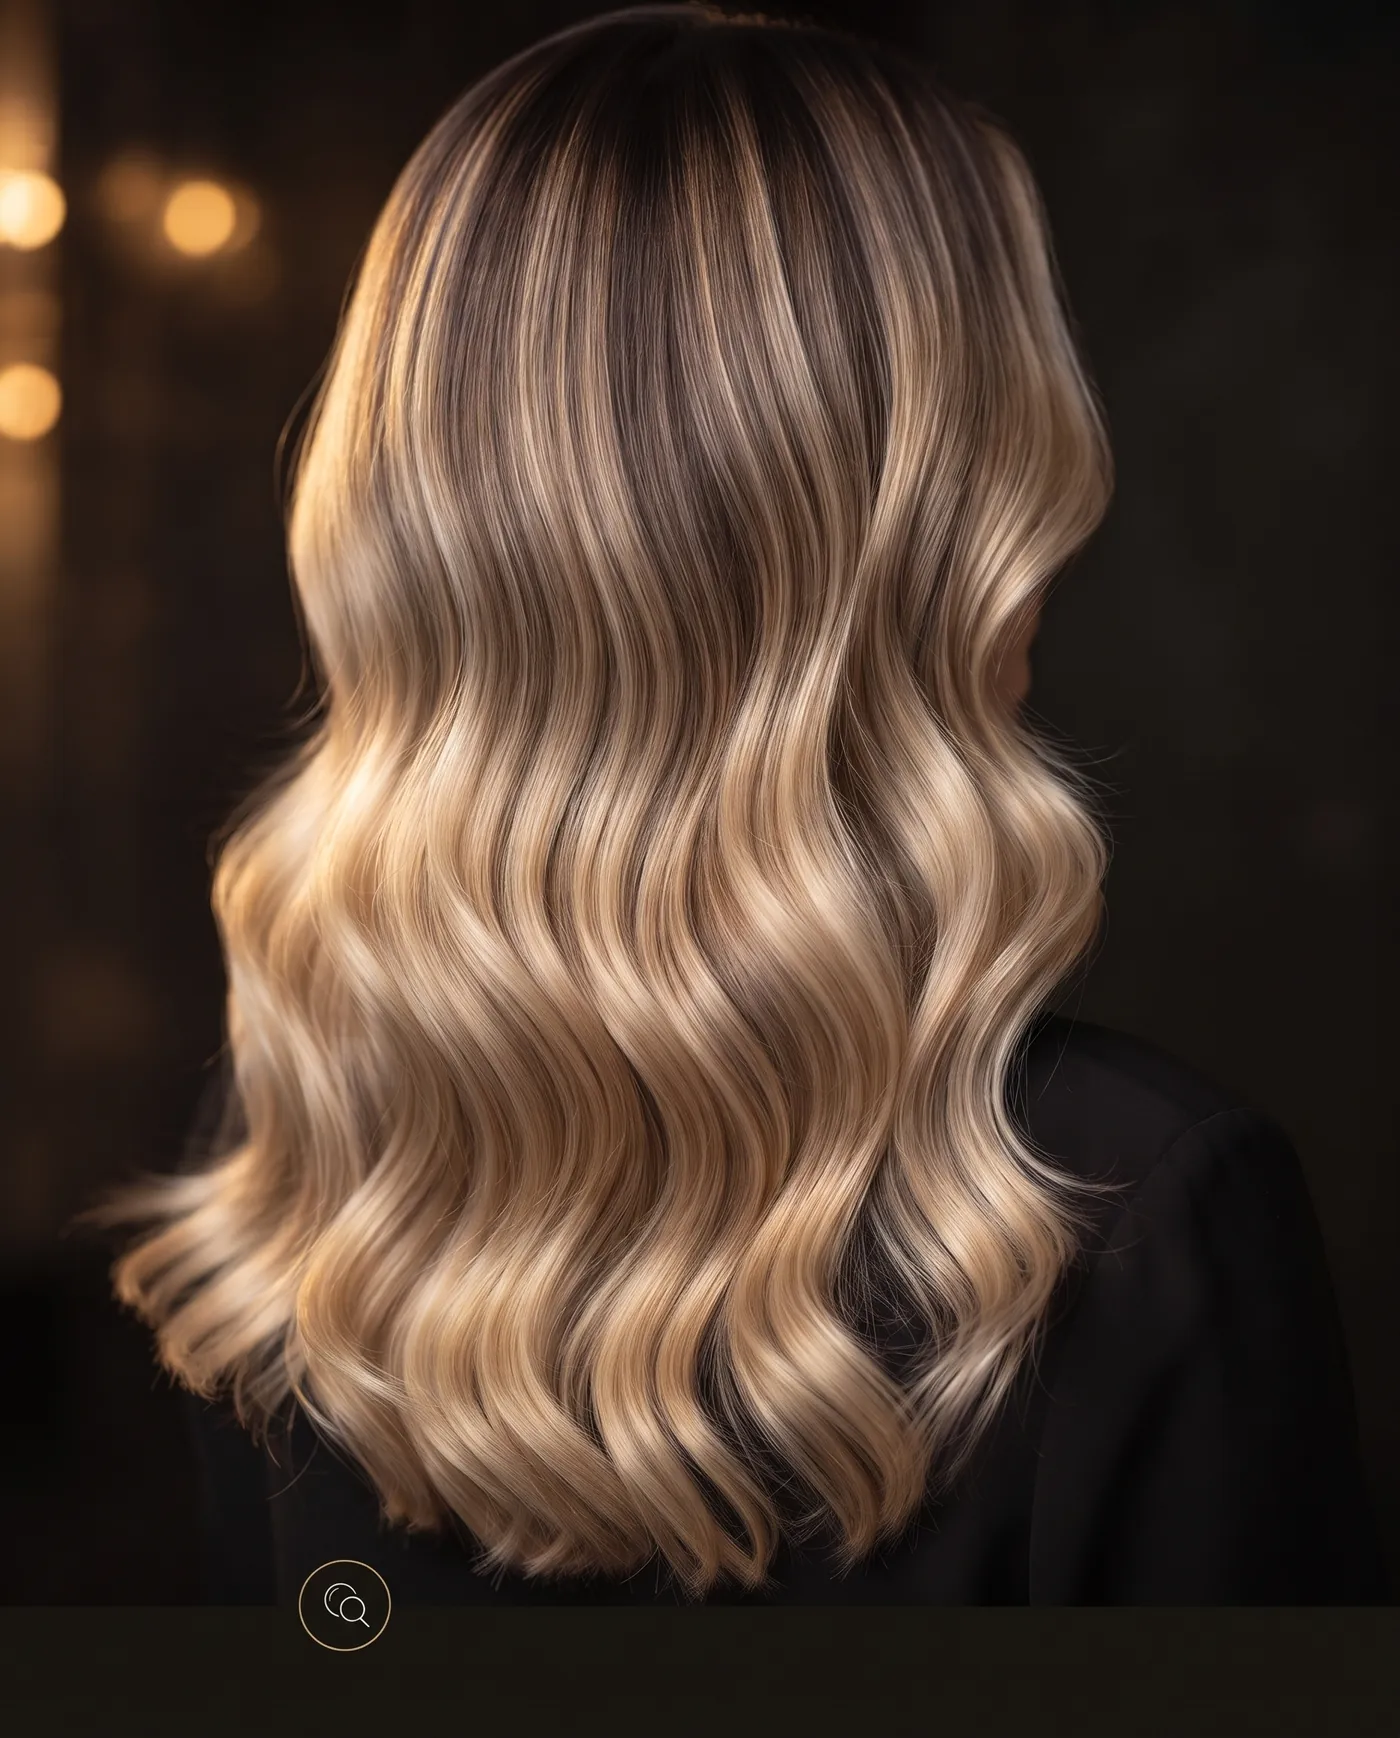
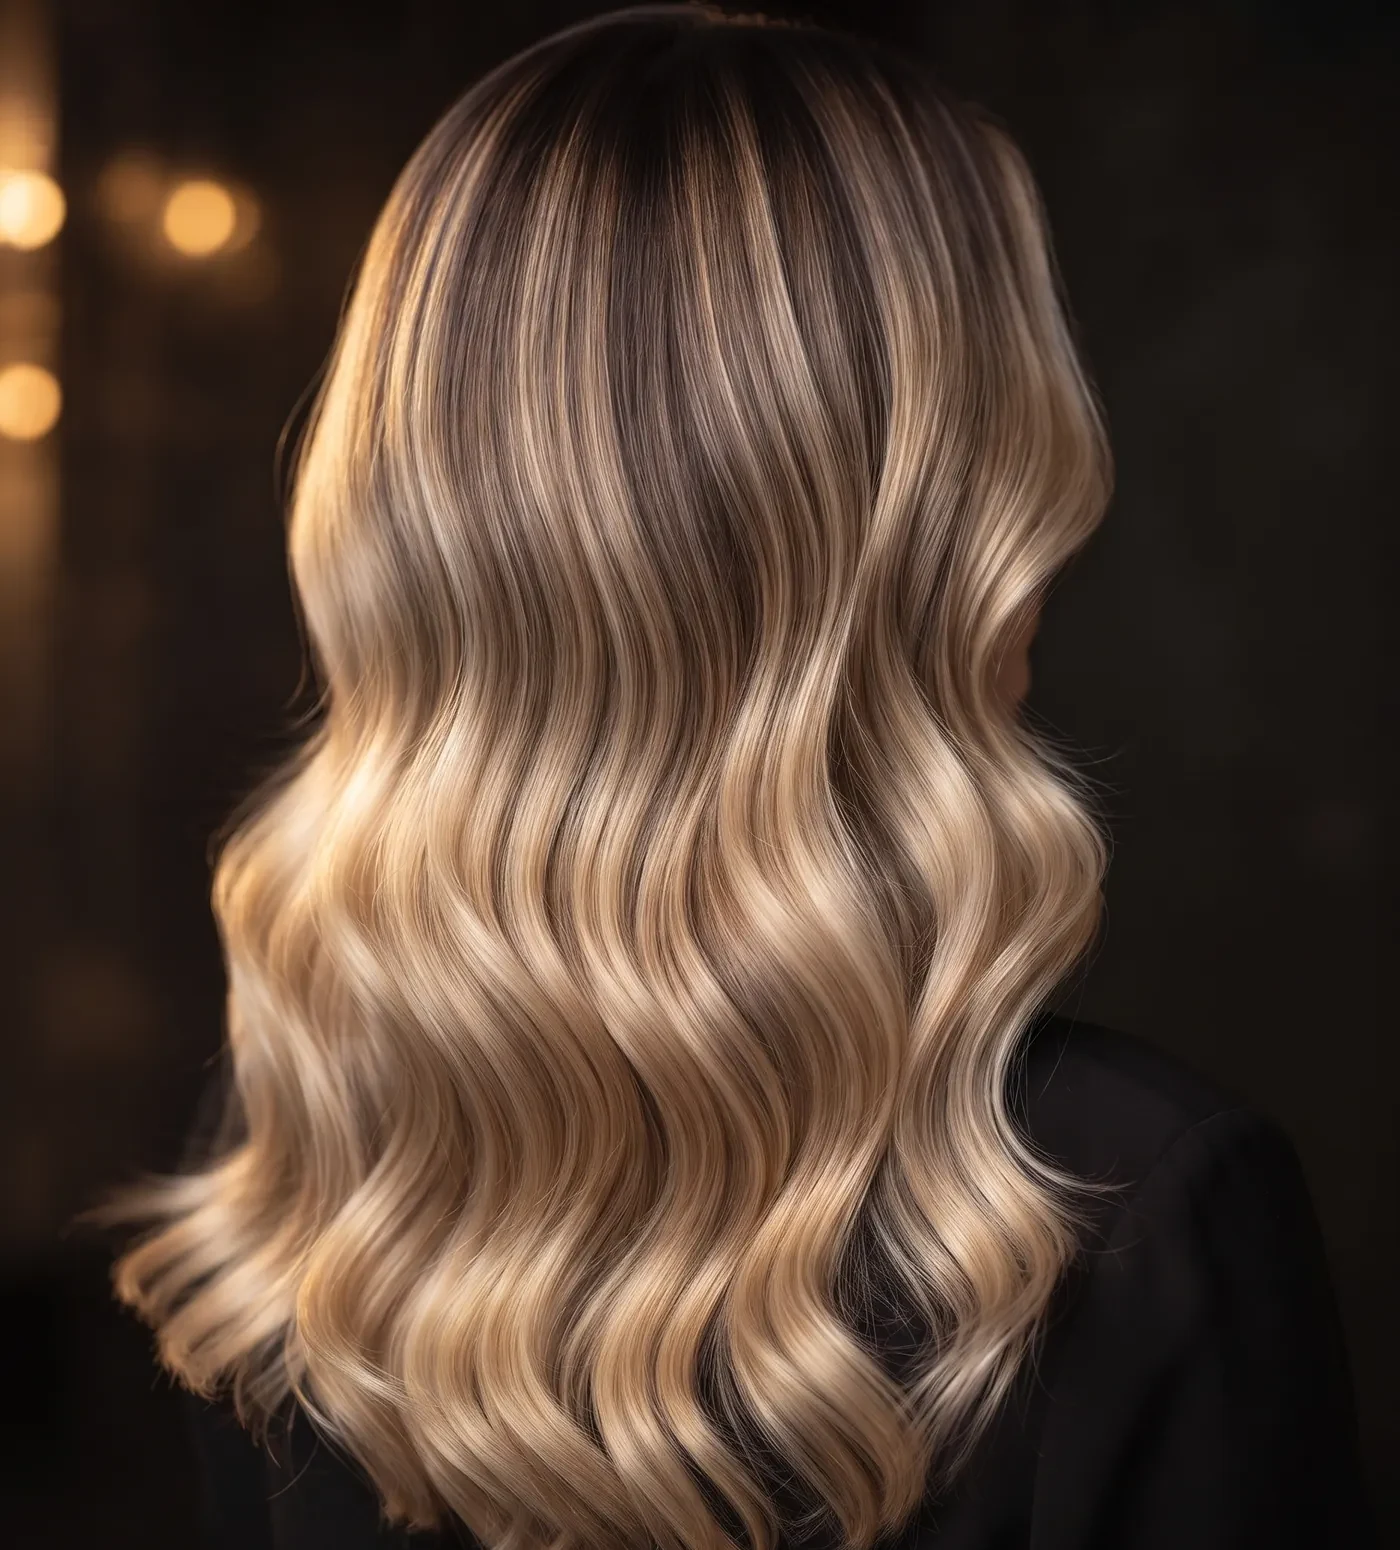
Frisør: ny hero-overskrift, træk i galleri og anmeldelser, rettede fotos og småting på mobil

diff --git a/components/frisoer/BaandTraek.tsx b/components/frisoer/BaandTraek.tsx
@@ -1,0 +1,160 @@
+"use client";
+
+import { useEffect } from "react";
+
+// Båndene (galleri og udtalelser) kan trækkes og skydes afsted med finger eller mus.
+// Uden JavaScript kører båndet på CSS-animationen. Her overtager vi bevægelsen, så alt hænger sammen:
+//  - båndet har sin egen rolige fart (den samme som CSS-animationen) og sin egen retning
+//  - mens man trækker, følger det fingeren
+//  - når man slipper, fortsætter det med fingerens fart og bremser blødt ned til sin egen rytme igen
+// Udtalelserne holder stadig pause, når musen er over dem, så man kan læse et kort.
+// Har brugeren bedt om mindre bevægelse, står båndet stille, men kan stadig trækkes.
+export default function BaandTraek() {
+  useEffect(() => {
+    const rolig = window.matchMedia("(prefers-reduced-motion: reduce)").matches;
+    const ryd: Array<() => void> = [];
+
+    document.querySelectorAll<HTMLElement>(".fr .fr-baand").forEach((baand) => {
+      const ul = baand.querySelector<HTMLElement>("ul");
+      if (!ul) return;
+
+      // Egen fart i px pr. ms, læst fra CSS-animationen, før vi slår den fra
+      const varighed = parseFloat(getComputedStyle(ul).animationDuration) * 1000 || 60000;
+      const retning = baand.classList.contains("fr-baand-modsat") ? 1 : -1;
+      // Galleriets rækker står der fire gange, udtalelserne to gange
+      const laeseBaand = baand.classList.contains("fr-udtalelser-baand");
+      const kopier = laeseBaand ? 2 : 4;
+      let periode = ul.scrollWidth / kopier;
+      let musOver = false;
+      const egenFart = () => (rolig || musOver ? 0 : (retning * periode) / varighed);
+
+      let x = retning > 0 ? -periode : 0; // båndets placering i px, altid mellem -periode og 0
+      let fart = egenFart();
+      let nede = false;
+      let traekker = false;
+      let startX = 0;
+      let sidstX = 0;
+      let sidstTid = 0;
+      let synlig = true;
+      let ramme = 0;
+      let forrige = 0;
+
+      baand.classList.add("er-styret");
+
+      const tegn = () => {
+        if (periode > 0) x = ((x % periode) - periode) % periode;
+        ul.style.transform = `translate3d(${x.toFixed(2)}px, 0, 0)`;
+      };
+
+      const trin = (nu: number) => {
+        const dt = Math.min(48, nu - (forrige || nu));
+        forrige = nu;
+        if (!traekker) {
+          // Farten nærmer sig båndets egen fart: hurtigt i starten, blødt til sidst (ca. 1,5 sek. i alt)
+          const maal = egenFart();
+          fart = maal + (fart - maal) * Math.exp(-dt / 420);
+          x += fart * dt;
+          tegn();
+        }
+        ramme = synlig ? requestAnimationFrame(trin) : 0;
+      };
+
+      const start = () => {
+        if (ramme || !synlig) return;
+        forrige = 0;
+        ramme = requestAnimationFrame(trin);
+      };
+
+      const ned = (e: PointerEvent) => {
+        if (e.pointerType === "mouse" && e.button !== 0) return;
+        nede = true;
+        traekker = false;
+        startX = sidstX = e.clientX;
+        sidstTid = e.timeStamp;
+      };
+
+      const flyt = (e: PointerEvent) => {
+        if (!nede) return;
+        if (!traekker) {
+          if (Math.abs(e.clientX - startX) < 6) return;
+          traekker = true;
+          fart = 0;
+          baand.classList.add("er-trukket");
+          try {
+            baand.setPointerCapture(e.pointerId);
+          } catch {}
+        }
+        const dx = e.clientX - sidstX;
+        const dt = Math.max(1, e.timeStamp - sidstTid);
+        // Glattet fingerfart, så et lille ryk til sidst ikke bestemmer det hele
+        fart = fart * 0.55 + (dx / dt) * 0.45;
+        sidstX = e.clientX;
+        sidstTid = e.timeStamp;
+        x += dx;
+        tegn();
+      };
+
+      const slip = (e: PointerEvent) => {
+        if (!nede) return;
+        nede = false;
+        if (!traekker) return;
+        traekker = false;
+        baand.classList.remove("er-trukket");
+        // Holdt fingeren stille, før den slap, skal båndet ikke skydes afsted
+        if (e.timeStamp - sidstTid > 90) fart = 0;
+        fart = Math.max(-3.2, Math.min(3.2, fart));
+      };
+
+      const maal = () => {
+        const ny = ul.scrollWidth / kopier;
+        if (ny > 0 && periode > 0) x = (x / periode) * ny;
+        periode = ny;
+        tegn();
+      };
+
+      const io = new IntersectionObserver(
+        ([p]) => {
+          synlig = p.isIntersecting;
+          if (synlig) start();
+        },
+        { rootMargin: "120px 0px" },
+      );
+      io.observe(baand);
+      const ro = new ResizeObserver(maal);
+      ro.observe(ul);
+
+      const ind = (e: PointerEvent) => {
+        if (laeseBaand && e.pointerType === "mouse") musOver = true;
+      };
+      const ud = () => {
+        musOver = false;
+      };
+      baand.addEventListener("pointerenter", ind);
+      baand.addEventListener("pointerleave", ud);
+      baand.addEventListener("pointerdown", ned);
+      baand.addEventListener("pointermove", flyt);
+      baand.addEventListener("pointerup", slip);
+      baand.addEventListener("pointercancel", slip);
+      tegn();
+      start();
+
+      ryd.push(() => {
+        cancelAnimationFrame(ramme);
+        io.disconnect();
+        ro.disconnect();
+        baand.removeEventListener("pointerenter", ind);
+        baand.removeEventListener("pointerleave", ud);
+        baand.removeEventListener("pointerdown", ned);
+        baand.removeEventListener("pointermove", flyt);
+        baand.removeEventListener("pointerup", slip);
+        baand.removeEventListener("pointercancel", slip);
+        baand.classList.remove("er-styret", "er-trukket");
+        ul.style.transform = "";
+      });
+    });
+
+    return () => ryd.forEach((f) => f());
+  }, []);
+
+  return null;
+}

diff --git a/app/frisoer/frisoer.css b/app/frisoer/frisoer.css
@@ -642,7 +642,7 @@ body:has(.fr) {
 .fr-hero-ring {
   --facet: polygon(30% 0, 78% 0, 100% 24%, 100% 70%, 66% 100%, 20% 100%, 0 78%, 0 26%);
   position: absolute;
-  inset: -18px 18px 18px -18px;
+  inset: -13px 13px 13px -13px;
   background: var(--guld);
   opacity: 0.55;
   clip-path: var(--facet);
@@ -1438,6 +1438,9 @@ body:has(.fr) {
     margin-inline: calc(var(--kant) * -1);
     padding-inline: var(--kant);
     overflow-x: auto;
+    /* Kun sidelæns: uden dette kunne rækken også rulle lidt op og ned (Emil 26. nov.) */
+    overflow-y: hidden;
+    overscroll-behavior-x: contain;
     scroll-snap-type: x mandatory;
     scrollbar-width: none;
   }
@@ -2735,4 +2738,59 @@ body:has(.fr) {
   font-size: clamp(1.25rem, 2.2vw, 1.7rem);
   line-height: 1.3;
   color: var(--tekst);
+}
+
+/* Forsidens overskrift: "dig" står stort til højre for de to første linjer (Emil 26. nov.) */
+.fr-hero-tekst h1 {
+  display: grid;
+  grid-template-columns: max-content max-content;
+  max-width: none;
+  justify-content: start;
+  align-items: center;
+  column-gap: 0.2em;
+}
+
+.fr-hero-tekst h1 .fr-linje {
+  grid-column: 1;
+  white-space: nowrap;
+}
+
+.fr-hero-tekst h1 .fr-linje:last-child {
+  grid-column: 2;
+  grid-row: 1 / span 2;
+  font-size: 1.75em;
+  line-height: 1;
+  padding: 0 0.06em 0.16em 0;
+}
+
+/* Galleriet og udtalelserne kan trækkes og skydes afsted med finger eller mus (BaandTraek.tsx styrer bevægelsen).
+   Lodret rulning af siden virker stadig. Uden JavaScript kører CSS-animationen som før (Emil 26. nov.) */
+.fr .fr-baand {
+  touch-action: pan-y;
+  cursor: grab;
+  user-select: none;
+  -webkit-user-select: none;
+}
+
+.fr .fr-baand img {
+  -webkit-user-drag: none;
+  pointer-events: none;
+}
+
+.fr .fr-baand.er-trukket {
+  cursor: grabbing;
+}
+
+.fr .fr-baand.er-styret ul {
+  animation: none;
+}
+
+/* Før-billedet er højere end efter-billedet. Det rykkes lidt ned, så ansigtet står samme sted i begge (Emil 26. nov.) */
+.fr-skyder-foer > img {
+  object-position: 50% 28%;
+}
+
+/* Sidehovedets tekst kan have linjeskift (skrives som \n i teksten) (Emil 26. nov.) */
+.fr-sidehoved .fr-hero-brod {
+  white-space: pre-line;
 }

diff --git a/app/frisoer/page.tsx b/app/frisoer/page.tsx
@@ -3,6 +3,7 @@ import { preload } from "react-dom";
 import Foto, { fotoSrcSet, fotoSti, medieSti } from "@/components/frisoer/Foto";
 import Ikon from "@/components/frisoer/Ikon";
 import { Kursiv } from "@/components/frisoer/Tekst";
+import BaandTraek from "@/components/frisoer/BaandTraek";
 import Farveskyder from "@/components/frisoer/Farveskyder";
 import Gavekort from "@/components/frisoer/Gavekort";
 import HeroVideo from "@/components/frisoer/HeroVideo";
@@ -158,7 +159,7 @@ export default function Forside() {
         </div>
       </section>
 
-      {/* Galleri: to rækker, der glider hver sin vej. Hver række står der fire gange, så båndet altid fylder skærmen. */}
+      {/* Galleri: to rækker, der glider hver sin vej og kan trækkes med finger eller mus (BaandTraek). Hver række står der fire gange, så båndet altid fylder skærmen. */}
       <section className="fr-sektion fr-galleri" aria-label="Billeder fra salonen">
         <div className="fr-indhold fr-sektion-top" data-vis>
           <div>
@@ -254,6 +255,9 @@ export default function Forside() {
           </ul>
         </div>
       </section>
+
+      {/* Gør båndene (galleri og udtalelser) til at trække i */}
+      <BaandTraek />
 
       {/* Afslutning */}
       <section className="fr-indhold fr-sektion-bund">

diff --git a/app/frisoer/behandlinger/page.tsx b/app/frisoer/behandlinger/page.tsx
@@ -19,7 +19,7 @@ export default function Behandlinger() {
         overlinje="Behandlinger & priser"
         titel="Erfaring, du kan _mærke_"
         underrubrik="Personlig service og et resultat, der taler for sig selv."
-        tekst="Alle priser er med vask, føn og gratis kaffe. Er du i tvivl om, hvad du skal vælge, så book en uforpligtende samtale på 15 minutter."
+        tekst={"Alle priser er med vask, føn og gratis kaffe.\nEr du i tvivl om, hvad du skal vælge, så book en uforpligtende samtale på 15 minutter."}
         medie={
           flaske ? (
             <div className="fr-flaske">

diff --git a/lib/frisoer.ts b/lib/frisoer.ts
@@ -19,7 +19,7 @@ export const menu = [
 
 export const hero = {
   overlinje: "Frisør i hjertet af Aarhus",
-  linjer: ["Dit hår.", "Din stil.", "Dit _udtryk_."],
+  linjer: ["Hår, der", "føles som", "_dig_"],
   tekst: "Klip, farve og pleje hos frisører, der tager sig tid til at lytte. Du går herfra med et hår, du selv kan sætte derhjemme.",
   anmeldelse: { tal: "4,9", antal: "1.200+ anmeldelser" },
 };
